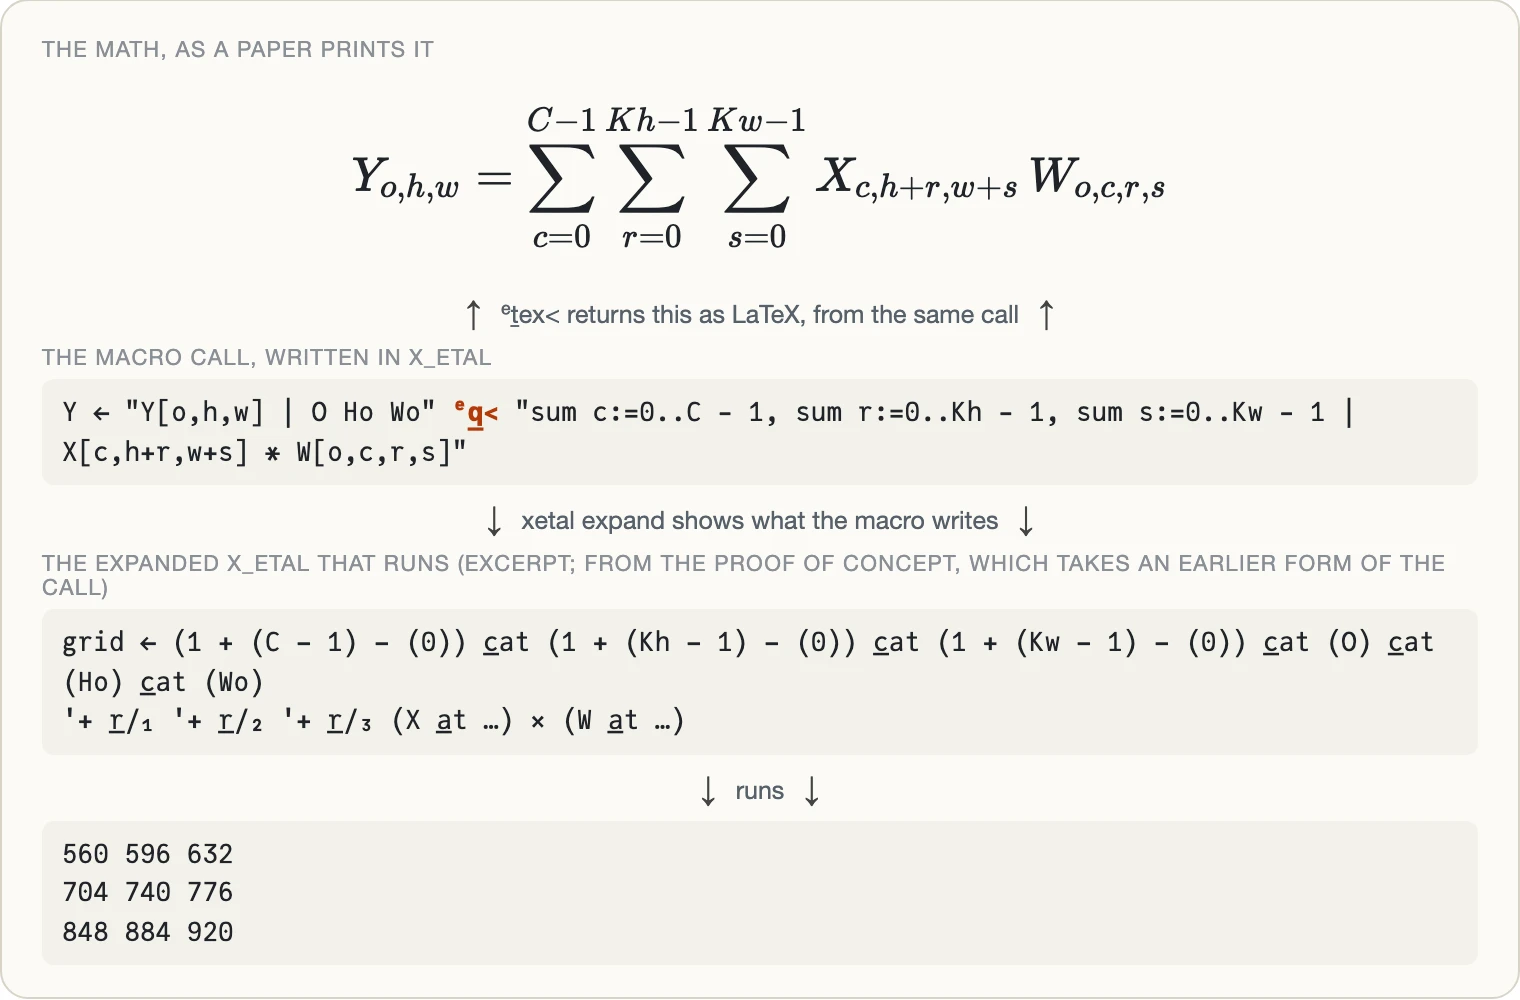
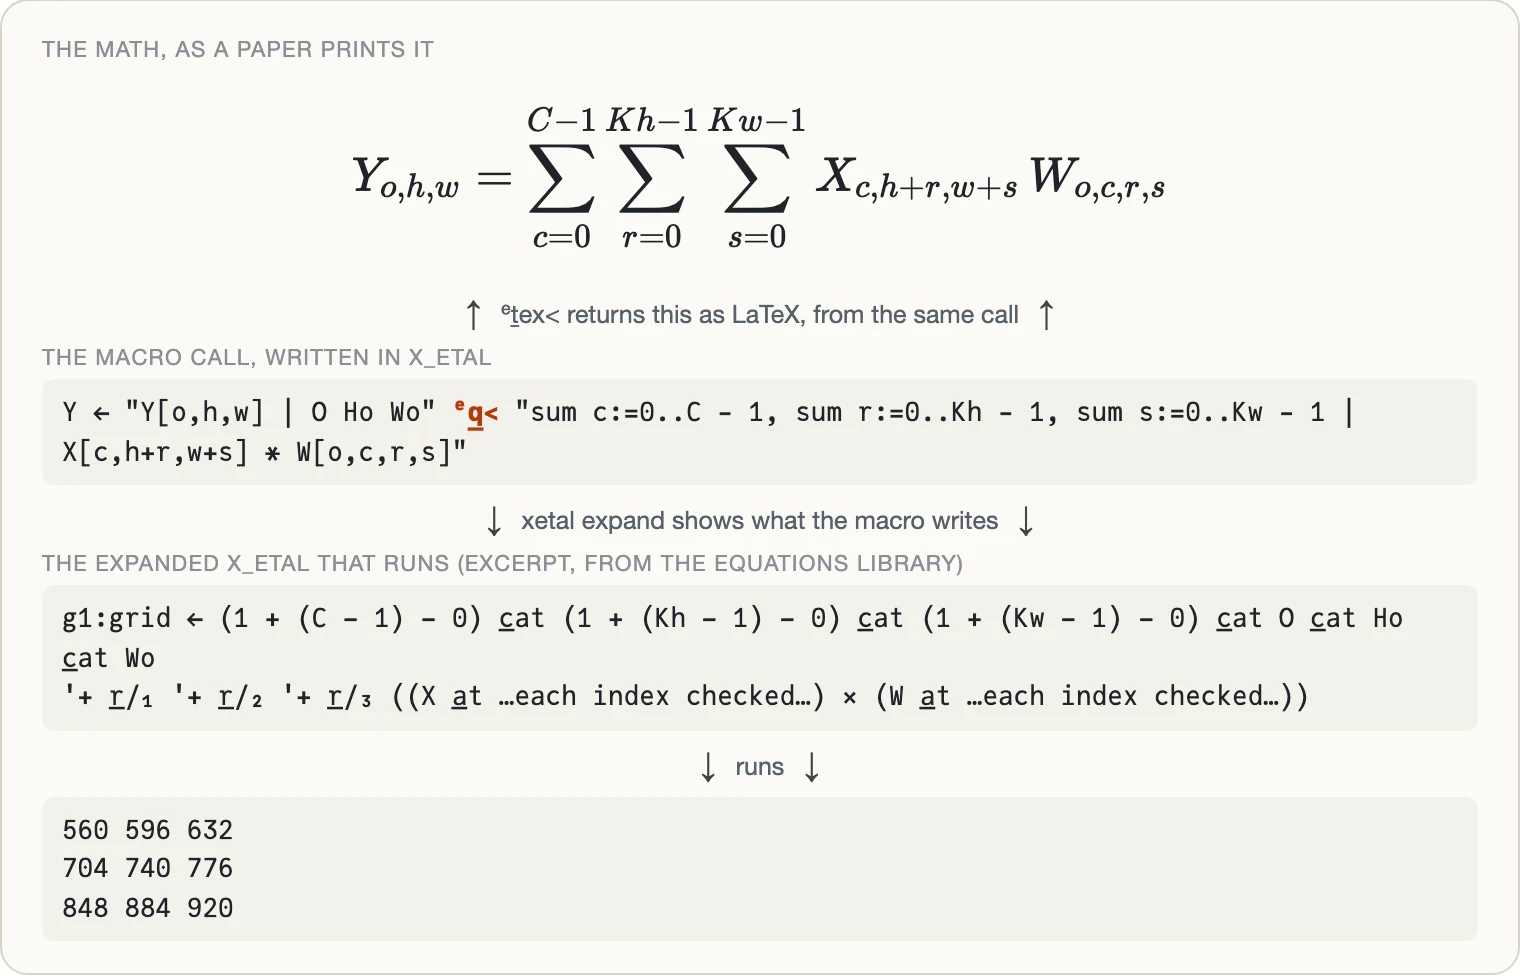
Array Languages #11 draft: the Equations library is real; its demo, expansion, errors and oracle

diff --git a/_drafts/array-languages-xetal-equations.md b/_drafts/array-languages-xetal-equations.md
@@ -4,11 +4,13 @@ title: "Array Languages #11: Math Equations as X_eTaL Macros"
 categories: [languages, language-design, machine-learning, tools]
 tags: [array-languages, xetal, x-etal, apl, macros, machine-learning, einsum, convolution, latex, notation]
 keywords: "X_eTaL equation macro, math notation in an array language, ML equations as code, CNN triple sum, cross-correlation, einsum, sum notation, LaTeX from code, macros instead of syntax"
-abstract: "Eleventh in the Array Languages series, a design before the code: macros that take an equation as an ML paper prints it, a CNN's triple sum for one, and give back the array computation, its LaTeX, or both. No change to the language: the point is to find out how far macros can carry ML notation before any new syntax is justified."
+abstract: "Eleventh in the Array Languages series: macros that take an equation as an ML paper prints it, a CNN's triple sum for one, and give back the array computation, its LaTeX, or both. They are a new library, Equations, in X_eTaL-libraries, with no change to the language: the point is to find out how far macros can carry ML notation before any new syntax is justified."
 series: "Array Languages"
 series_part: 11
 date: 2026-10-17 00:15:00 -0700
 repo_urls:
+  - url: "https://github.com/softwarewrighter/X_eTaL-libraries/tree/main/libs/Equations"
+    title: "X_eTaL-libraries: Equations"
   - url: "https://github.com/softwarewrighter/X_eTaL"
     title: "X_eTaL"
 ---
@@ -23,17 +25,17 @@ repo_urls:
      2026-10-16 evening (Mike relayed the X_eTaL agent): the library moves to X_eTaL-libraries as libs/Equations (Equations.xtlm),
      imported "e:" u_se< "Equations"; new saga there: XETAL_COMMIT bump (needs []G_ENSYM, raw strings), oracle, capture, lowering,
      latex + README/docs/demo/catalog. X_eTaL keeps the integrals plan, a canary macro library, the shape lint, the docs.
-     PLAN (Mike, 2026-10-16): Equations lands BEFORE this post publishes 10/17; the lint work runs in parallel. On landing, regenerate
-     from the real library: xetal-eq-three.webp and the "What it becomes" expansion from the decided call (not the POC's e:s_um<),
-     the LaTeX from e:t_ex<, the fixtures from the oracle goldens, the bounds error from an actual run; drop "not written yet".
-     The library itself is NOT written yet: no claims that it runs; the numbers below are the proof of concept's.
-     Date provisional (after #10 on Friday 10/16). Lead image: Mike's chalkboard of the stable softmax, not inverted, not transparent. -->
+     2026-10-17: Equations DONE in X_eTaL-libraries (saga 12: be0f5b9 pin, 8197d52 oracle, 09143d8 capture, cb430d5 lowering,
+     ba03d6a latex; 0643930 expansion layout, 7dffc91, 4b4193b just tex); in the live demo. Expansion, outputs and errors in this post
+     are from runs with the repo's pinned xetal (823adbd3) on 2026-10-17 and match the tests/*.out goldens; error locations trimmed.
+     X_eTaL D158 (730f741f): Boxed setting broke every macro expansion in the live demo (Mike's report); fixed.
+     -->
 
 <img src="{{ '/assets/images/posts/block-chalk-softmax.webp' | relative_url }}" class="post-marker no-invert" alt="" style="width: 205px;">
 
 <div style="overflow: hidden;" markdown="1">
 
-[ML #9](/2026/09/10/ml-cnn-from-equations-mlpl/) ended with a CNN's triple sum and a question: what notation could say it in one line? [Post #5](/2026/10/11/array-languages-xetal-ml/) said experiments were under way with macros for ML equations. This is the design they produced. Its purpose is to let one equation be seen three ways and to move freely between them: as the math a paper prints, as an X_eTaL macro call that reads almost the same, and as the ordinary X_eTaL the macro expands to and runs. Because the typeset math and the running code come from the same call, they cannot drift apart.
+[ML #9](/2026/09/10/ml-cnn-from-equations-mlpl/) ended with a CNN's triple sum and a question: what notation could say it in one line? [Post #5](/2026/10/11/array-languages-xetal-ml/) said experiments were under way with macros for ML equations. This post is what they produced: a library, `Equations`. Its purpose is to let one equation be seen three ways and to move freely between them: as the math a paper prints, as an X_eTaL macro call that reads almost the same, and as the ordinary X_eTaL the macro expands to and runs. Because the typeset math and the running code come from the same call, they cannot drift apart.
 
 </div>
 
@@ -44,7 +46,8 @@ repo_urls:
 | Resource | Link |
 |----------|------|
 | **The design** | [docs/spatial.md](https://github.com/softwarewrighter/X_eTaL/blob/main/docs/spatial.md) --- the call, the lowering, the errors, the expected outputs |
-| **The library** | [X_eTaL-libraries](https://github.com/softwarewrighter/X_eTaL-libraries) --- where `Equations` is being built, beside the other shared libraries |
+| **The library** | [Equations](https://github.com/softwarewrighter/X_eTaL-libraries/tree/main/libs/Equations) in X_eTaL-libraries · [its reference](https://github.com/softwarewrighter/X_eTaL-libraries/blob/main/libs/Equations/docs/README.md) |
+| **Try it** | [the live demo](https://softwarewrighter.github.io/X_eTaL-libraries/): pick Equations, run the CNN demo, see the math drawn |
 | **Why this call** | [docs/eq-rationale.md](https://github.com/softwarewrighter/X_eTaL/blob/main/docs/eq-rationale.md) --- seven ways to write it, compared |
 | **The thread** | [ML #9](/2026/09/10/ml-cnn-from-equations-mlpl/) · [Array Languages #5: X_eTaL-ML](/2026/10/11/array-languages-xetal-ml/) |
 | **Comments** | [Discord](https://discord.com/invite/Ctzk5uHggZ) |
@@ -66,7 +69,7 @@ Machine-learning papers are written in math, and programs are not. Translating o
 - **The macro call,** in the middle, which is what a programmer writes. It reads almost like the math: the same indices, the same bounds, the same summand.
 - **The expanded X_eTaL,** below it, which is what actually runs, plain array operations that `xetal expand` will show to anyone who wants to check the macro's work.
 
-Read up, and the code can be checked against the paper. Read down, and the paper becomes a program, with its answer at the bottom. The expansion and the answer here come from the proof of concept, which takes an earlier form of the call. The library that takes the form shown, Equations, is the next piece of work.
+Read up, and the code can be checked against the paper. Read down, and the paper becomes a program, with its answer at the bottom. All three come from the `Equations` library: the math is the LaTeX it returns, the expansion is what `xetal expand` prints, and the answer is what the expansion computes.
 
 <div style="clear: both;"></div>
 
@@ -101,60 +104,107 @@ Three macros parse the same text the same way:
 | `e:t_ex<` | the LaTeX, a string |
 | `e:b_oth<` | both, as a pair |
 
-So the value and its typeset equation always describe the same thing. For the CNN call the LaTeX is:
+So the value and its typeset equation always describe the same thing. The library's demo is one CNN layer, two 4 by 4 pictures through one 2 by 2 by 2 filter, with one call giving both:
 
 ```text
-Y_{o,h,w} = \sum_{c=0}^{C - 1} \sum_{r=0}^{Kh - 1} \sum_{s=0}^{Kw - 1} X_{c,h+r,w+s} \, W_{o,c,r,s}
+"e:" u̲se< "Equations"
+X ← 2 4 4 r̲eshape r̲ange 32
+W ← 1 2 2 2 r̲eshape r̲ange 8
+(C, Kh, Kw) ← (2, 2, 2)
+(O, Ho, Wo) ← (1, 3, 3)
+(Y, tex) ← "Y[o,h,w] | O Ho Wo" ᵉb̲oth< "sum c:=0..C - 1, sum r:=0..Kh - 1, sum s:=0..Kw - 1 | X[c,h+r,w+s] * W[o,c,r,s]"
+"$$" c̲at tex c̲at "$$"
+Y
+Y m̲atch X ᵉc̲orrelate W
 ```
+
+<figure class="zoomable" style="float: right; clear: both; margin: 0.2em 0 0.6em 1.5em; max-width: 48%;">
+<img src="{{ '/assets/images/posts/xetal-eq-texpage.webp' | relative_url }}" class="no-invert" alt="The Equations library's page for its CNN demo: the program, then its output, where the line printed between double dollar signs is drawn by KaTeX as the triple sum Y sub o,h,w equals the sum over c, r and s of X sub c, h plus r, w plus s times W sub o,c,r,s, followed by the result 560 596 632, 704 740 776, 848 884 920 and a 1">
+<figcaption style="font-size: 0.85em;">The demo as the library shows it: the program, and its output with the LaTeX line drawn as math. Click to enlarge.</figcaption>
+</figure>
+
+It prints the LaTeX between `$$` markers, then the result, then a check:
+
+```text
+$$Y_{o,h,w} = \sum_{c=0}^{C - 1} \sum_{r=0}^{Kh - 1} \sum_{s=0}^{Kw - 1} X_{c,h+r,w+s} \, W_{o,c,r,s}$$
+560 596 632
+704 740 776
+848 884 920
+1
+```
+
+The `$$` line is for whatever shows the output. In the library's live demo, and on the page `just tex Equations cnn` writes, shown here, that line is drawn as math by KaTeX; everywhere else it is plain text. The final `1` is the check: the result matches `ᵉc̲orrelate`, the library's own cross-correlation, written a different way.
+
+<div style="clear: both;"></div>
 
 ## What it becomes
 
-The macro writes ordinary X_eTaL, and `xetal expand` shows it. The proof of concept already does this, from an earlier form of the call, which gave the sums' bounds in one list and their starting values in a third region, matched by position:
+The macro writes ordinary X_eTaL, and `xetal expand` shows it. This is the demo's call, expanded and rendered. The layout is the macro's own: it writes its expansion as a program, one definition per line and each gather on its own line, so it can be read.
 
 ```text
-Y ← "o h w | O Ho Wo" ᵉs̲um< "C - 1, Kh - 1, Kw - 1 | X[c,h+r,w+s] * W[o,c,r,s] | c:=0, r:=0, s:=0"
+(Y, tex) ← (({ @ →
+  g1:grid ← (1 + (C − 1) − 0) c̲at (1 + (Kh − 1) − 0) c̲at (1 + (Kw − 1) − 0) c̲at O c̲at Ho c̲at Wo
+  g2:g̲rid ← { k → g1:grid r̲eshape (o̲ffsets k s̲elect g1:grid) 'l̲eft t̲able ('× r̲/ k d̲rop g1:grid) r̲eshape 0 }
+  g5:a̲t ← { A i → (1 + i) s̲elect r̲avel A }
+  g4:c̲heck ← { (A, name, k, from) e →
+    n ← k s̲elect s̲hape A
+    bad ← w̲here n̲ot r̲avel (0 ≤ e) ∧ e < n
+    0 = t̲ally bad ? e
+    "index" ⎕S̲IGNAL name c̲at " axis " c̲at (f̲ormat k) c̲at ": index " c̲at (f̲ormat (f̲irst bad) s̲elect r̲avel e) c̲at " is outside 0.." c̲at (f̲ormat n − 1) c̲at " (from " c̲at from c̲at ")"
+  }
+  g3:r̲ank ← { (A, name, q, ref) →
+    (t̲ally s̲hape A) = q ? A
+    "rank" ⎕S̲IGNAL ref c̲at " indexes " c̲at (f̲ormat q) c̲at " axes, but " c̲at name c̲at " has rank " c̲at f̲ormat t̲ally s̲hape A
+  }
+  '+ r̲/₁ '+ r̲/₂ '+ r̲/₃ ((
+    ((g3:r̲ank (X, "X", 3, "X[c,h+r,w+s]")) g5:a̲t ((
+      ((X, "X", 3, "w+s") g4:c̲heck ((g2:g̲rid 6) + (0 + g2:g̲rid 3))) + (3 s̲elect s̲hape X) × (
+      ((X, "X", 2, "h+r") g4:c̲heck ((g2:g̲rid 5) + (0 + g2:g̲rid 2))) + (2 s̲elect s̲hape X) × 
+      ((X, "X", 1, "c") g4:c̲heck (0 + g2:g̲rid 1)))))) × 
+    ((g3:r̲ank (W, "W", 4, "W[o,c,r,s]")) g5:a̲t ((
+      ((W, "W", 4, "s") g4:c̲heck (0 + g2:g̲rid 3)) + (4 s̲elect s̲hape W) × (
+      ((W, "W", 3, "r") g4:c̲heck (0 + g2:g̲rid 2)) + (3 s̲elect s̲hape W) × (
+      ((W, "W", 2, "c") g4:c̲heck (0 + g2:g̲rid 1)) + (2 s̲elect s̲hape W) × 
+      ((W, "W", 1, "o") g4:c̲heck (g2:g̲rid 4)))))))))
+} @, "Y_{o,h,w} = \\sum_{c=0}^{C - 1} \\sum_{r=0}^{Kh - 1} \\sum_{s=0}^{Kw - 1} X_{c,h+r,w+s} \\, W_{o,c,r,s}"))
 ```
 
-Its expansion, rendered, with line breaks added at the statement separators:
-
-```text
-Y ← ({ @ →
-  grid ← (1 + (C − 1) − (0)) c̲at (1 + (Kh − 1) − (0)) c̲at (1 + (Kw − 1) − (0)) c̲at (O) c̲at (Ho) c̲at (Wo)◆
-  g̲rid ← { k → grid r̲eshape (o̲ffsets k s̲elect grid) 'l̲eft t̲able ('× r̲/ k d̲rop grid) r̲eshape 0 }◆
-  a̲t ← { A i → (1 + i) s̲elect r̲avel A }◆
-  '+ r̲/₁ '+ r̲/₂ '+ r̲/₃
-    (X a̲t ((g̲rid 6)+((0) + g̲rid 3)) + (3 s̲elect s̲hape X) × ((g̲rid 5)+((0) + g̲rid 2)) + (2 s̲elect s̲hape X) × (((0) + g̲rid 1)))
-    × (W a̲t (((0) + g̲rid 3)) + (4 s̲elect s̲hape W) × (((0) + g̲rid 2)) + (3 s̲elect s̲hape W) × (((0) + g̲rid 1)) + (2 s̲elect s̲hape W) × ((g̲rid 4)))
-} @)
-```
-
-Each line maps back to the math:
+Each part maps back to the math:
 
 - **`grid`** is the shape of the whole computation: one axis per index, the summed ones first, `c`, `r` and `s`, then the free ones, `o`, `h` and `w`.
 - **`g̲rid k`** gives the value of the `k`th index at every point of that grid, so `g̲rid 3` is `s` everywhere and `g̲rid 6` is `w`.
 - **`a̲t`** reads elements out of an array by flat position, a gather.
 - **The `X` term** builds each flat position from the paper's subscripts, `w+s`, `h+r` and `c`, combined by the array's own dimensions, so `X[c,h+r,w+s]` becomes one gather over the whole grid. The `W` term does the same for `W[o,c,r,s]`.
+- **`c̲heck` and `r̲ank`** guard every gather: each subscript is checked against its axis, and each array against the number of subscripts written for it, with the text of the subscript kept for the message.
 - **`'+ r̲/₁ '+ r̲/₂ '+ r̲/₃`** are the three sums: reductions along the axes of `c`, `r` and `s`, leaving an array of shape `O Ho Wo`, which is `Y`.
+- **The `g1:` to `g5:` prefixes** are fresh names the macro asks the language for, so nothing it defines can clash with a name in the program around it.
+- **The string at the end** is the LaTeX, the second half of the pair that `ᵉb̲oth<` returns.
 
-There are no loops in the result, just array operations, which is the same shape the GPU work in [post #7](/2026/10/13/array-languages-xetal-gpu/) lowers to kernels. The decided form adds what the proof of concept lacks: each sum binds its own index and range, so a bound cannot be paired with the wrong index, and every gather gets a bounds check.
+There are no loops in the result, just array operations, which is the same shape the GPU work in [post #7](/2026/10/13/array-languages-xetal-gpu/) lowers to kernels.
 
-Mistakes are caught where they can be. A malformed range, an index summed twice, or a summand index that is neither summed nor free is rejected when the macro expands. An index that runs outside its array is a run-time error that names the array, the axis, the index and the expression it came from, never a silent wrong read:
-
-```text
-error[index]: X axis 2: index 5 is outside 0..3 (from h+r)
-```
-
-## Checked before it is built
-
-The `Equations` library is not written yet; it is the next piece of work. A proof of concept, in an earlier form of the call, already runs, and its outputs were checked against an independent version written by hand; they become the library's tests. One fixture: `X` of 2 by 4 by 4 holding 0 to 31 and `W` of 1 by 2 by 2 by 2 holding 0 to 7 give a 1 by 3 by 3 result:
+Mistakes are caught where they can be. A malformed call is rejected when the macro expands, before the program runs; the library's tests cover ten of them, among them a sum written `c=0..C - 1` where `c:=0..C - 1` is meant, a sum with no operator word, a missing summand, and an index bound twice:
 
 ```text
-560 596 632
-704 740 776
-848 884 920
+"Y[o,h,w] | O Ho Wo" ᵉq̲< "sum c:=0..C - 1, sum h:=0..1 | X[c,h,w]"
+error[bad-equation]: an index is bound once: c, h, o, h, w
 ```
 
-Two more are pinned the same way: all ones, where every element is 8, and one with two output channels, three input channels and a 2 by 3 kernel on 5 by 6 pictures, giving a 2 by 4 by 4 result.
+The rest is checked when the program runs, never left as a silent wrong read. Too few subscripts for an array:
+
+```text
+error[rank]: X[c,h+r] indexes 2 axes, but X has rank 3
+```
+
+And an index outside its axis, here a sum that runs one past the two channels:
+
+```text
+"Y[o,h,w] | O Ho Wo" ᵉq̲< "sum c:=0..C | X[c,h,w]"
+error[index]: X axis 1: index 2 is outside 0..1 (from c)
+```
+
+## Checked against an oracle
+
+The library was built test-first, against an oracle: `ᵉc̲orrelate`, the same cross-correlation written independently, with rotations, a transpose and one inner product. Three fixtures pin it. All ones gives 8 everywhere. `X` of 2 by 4 by 4 holding 0 to 31 and `W` of 1 by 2 by 2 by 2 holding 0 to 7 give the demo's 1 by 3 by 3 result. And two output channels, three input channels and a 2 by 3 kernel on 5 by 6 pictures give a 2 by 4 by 4 result. The macro must match the oracle on all three, and it does.
 
 The call's form was not the first idea. The design compares seven ways of writing it, judged on whether a reader can see which bound goes with which index, whether different operators can mix, what a plausible slip does, how close it stays to the paper, and whether it works with no compiler change. The worst outcome is a slip that gives a silent wrong answer, and the chosen form, a binding per sum, was picked largely to rule those out.
 
@@ -164,7 +214,9 @@ The call's form was not the first idea. The design compares seven ways of writin
 
 ## What comes next
 
-The library is built in X_eTaL-libraries, in a fixed order, each step with its tests first. First the library's pinned copy of X_eTaL moves up to the current language, since the macros need two of its recent additions: fresh names for the code a macro emits, so it cannot clash with a user's, and raw strings. Then an oracle, an independent version of the convolution written with rotations, a transpose and one inner product, which must reproduce the three fixtures. Then reading the call: splitting its strings, pairing each sum's bounds with its index, and rejecting a malformed call when it expands, including one that would otherwise give a silent wrong answer. A macro there can use the other libraries for its own text processing, so the `Strings` library's splitting and trimming replace much of the proof of concept's hand-written code. Then the lowering, the grids, gathers with a bounds check per axis, and reductions above, which must match the oracle. Then the LaTeX, from the same parse, checked by a typesetter, with the library's documentation and a demo. After that come the parts deliberately left out for now: padding, strides and dilation for convolutions, and a shape check that catches a wrong shape before a program runs rather than after. Anything a macro cannot cover is reviewed and decided, never assumed.
+The library went from plan to finished in one evening, in five steps, each with its tests first: moving its copy of X_eTaL up to the current language, for fresh names and raw strings; the oracle; reading the call, with the rejections; the lowering, with the checks; and the LaTeX, with the demo and the documentation. Then I asked for readable expansions, and the macro now lays its expansion out as a program, as shown above; a general layout pass for every macro's expansion is queued in X_eTaL. Macros also had a bug, which I hit in X_eTaL's live demo: with its Boxed display on, every macro call in every program failed, because a macro's expansion went through the same printer as the program's output and came back drawn as a box instead of as source. That is fixed, with tests that were red before the fix.
+
+Still ahead for equations: the parts deliberately left out, padding, strides and dilation for convolutions, and a shape check that catches a wrong shape before a program runs rather than after, which is being built in X_eTaL now. Anything a macro cannot cover is reviewed and decided, never assumed.
 
 Sums are not the only operator an equation needs. A continuous convolution is an integral, and integrals are planned as well, with the numerical method stated in the program rather than assumed; they too are the subject of a planned post.
 
